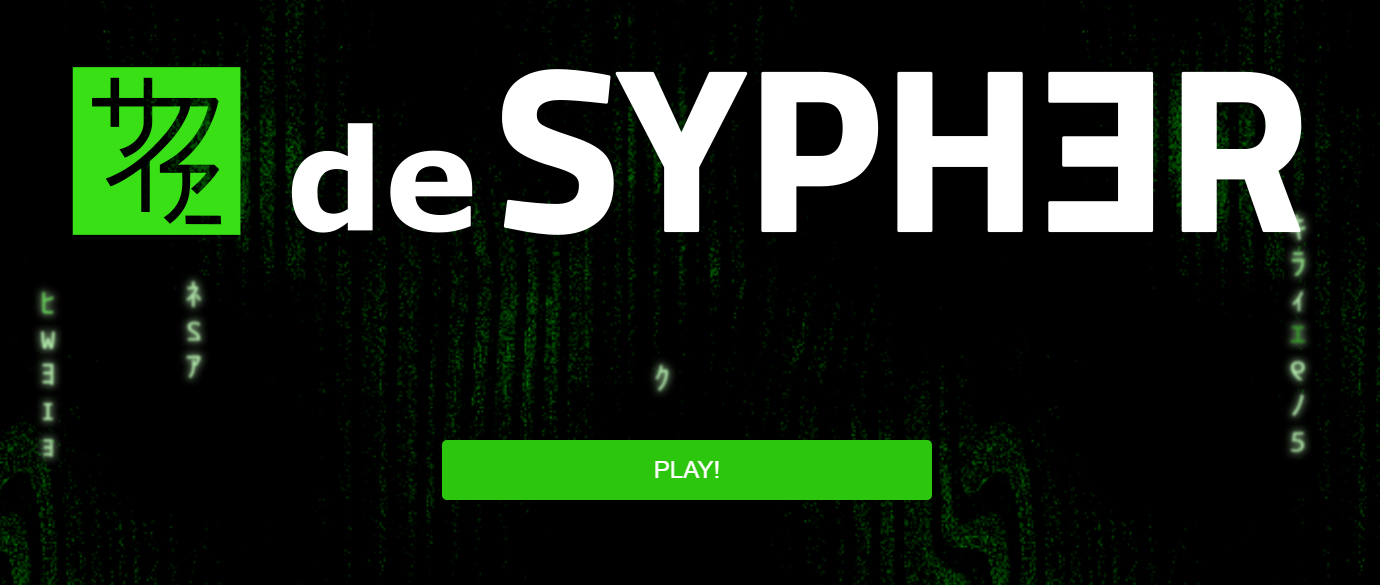
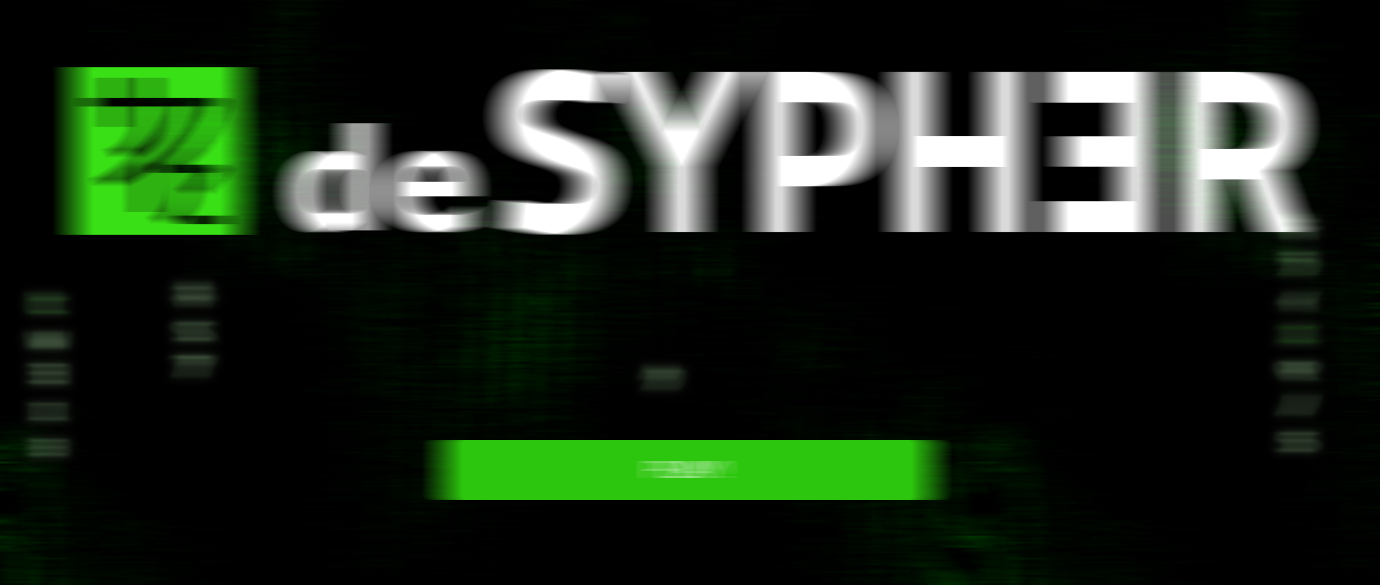
add details & bug fixes
- added sfx
- added audio pool
- adjusted image in readme
- added more sleek animations
- button hover sfx
- changed positioning of some elements

diff --git a/public/style.css b/public/style.css
@@ -15,8 +15,8 @@ body {
 .game-logo {
     max-width: 100%;
     height: auto;
-    margin-bottom: 20px;
-    margin-top: -100px;
+    margin-bottom: 2px;
+    margin-top: -50px;
     animation: transitionDown 5s;
     animation-timing-function: ease-in;
     align-self: center;
@@ -122,7 +122,7 @@ body {
 }
 /* #endregion Puzzle Input Fields */
 
-/* #region Game Button */
+/* #region Game Buttons */
 .game-button {
     background-color: #2dc60e;
     color: white;
@@ -156,23 +156,25 @@ body {
     border: 2px solid #0f3e07; /* Border for when the button is focused */
 }
 .play-button {
-    display: inline-block; /* or 'block' depending on your layout needs */
-    width: 35%; /* Adjust the width as needed */
+    display: inline-block;
+    width: 35%;
     margin: 0 auto; /* Centers the button horizontally in its container */
     text-align: center; /* Centers the text horizontally */
-    padding: 15px 30px; /* Adjust as needed. Also helps in vertical spacing */
-    font-size: 24px; /* Adjust based on your design */
-    line-height: 1.25; /* Adjusting the line height can help center the text vertically */
+    padding: 15px 30px;
+    font-size: 24px;
+    line-height: 1.25;
+    animation: transitionScale 2.5s, pulse 2s infinite ease-in-out 2.5s;
 }
-/* #endregion Game Button */
+/* #endregion Game Buttons */
 
 /* #region Social Media */
 .social-media-section {
     text-align: center;
     margin-top: 40px;
-    padding: 40px 0; /* Spacing at the top and bottom */
-    position: fixed;
-    bottom: 20px; /* This positions the section at the bottom of the viewport */
+    padding: 1px 0; /* Spacing at the top and bottom */
+    position: sticky;
+    top: 2px; /* Adjust the offset as needed */
+    bottom: 2px; /* This positions the section at the bottom of the viewport */
     left: 50%;
     transform: translateX(-50%); /* This centers the section */
     z-index: 100; /* Ensures it's on top of other elements */
@@ -205,10 +207,10 @@ body {
 /* #region Branding Section */
 .branding-section {
     margin-top: 40px;
-    padding: 20px 0;
+    padding: 1px 0;
     text-align: center;
-    position: fixed;
-    bottom: 5px;
+    position: sticky;
+    bottom: 1px;
     z-index: 100;
     color: #166009;
     animation: transitionScale 3.5s;
@@ -259,30 +261,96 @@ body {
 }
 /* #endregion Mobile-specific adjustments */
 
-
-
-
-
-/* Style the scrollbar track (background) */
+/* #region Scrollbar */
 ::-webkit-scrollbar {
-    width: 12px; /* width of the entire scrollbar */
+    background: black;
+    width: 12px;
   }
   
   /* Handle */
 ::-webkit-scrollbar-thumb {
-    background: #888; /* scrollbar handle color */
+    background: #0f3e07;
     border-radius: 6px;
   }
   
   /* Handle on hover */
 ::-webkit-scrollbar-thumb:hover {
-    background: #555; /* scrollbar handle color on hover */
+    background: #166009;
   }
+/* #endregion Scrollbar */
 
-  
+/* #region Animations */
+@keyframes transitionDown {
+    from {
+        opacity: 0;
+        transform: translateY(-20px); /* Start slightly above the final position */
+    }
+    to {
+        opacity: 1;
+        transform: translateY(0);
+    }
+}
+@keyframes transitionLeft {
+    from {
+        opacity: 0;
+        transform: translateX(20px);
+    }
+    to {
+        opacity: 1;
+        transform: translateX(0);
+    }
+}
+@keyframes transitionRight {
+    from {
+        opacity: 0;
+        transform: translateX(-20px);
+    }
+    to {
+        opacity: 1;
+        transform: translateX(0);
+    }
+}
+@keyframes transitionScale {
+    from {
+        opacity: 0;
+        scale: 1.25;
+    }
+    to {
+        opacity: 1;
+        transform: scale(var(--default-scale));
+    }
+}
+@keyframes fall {
+    from {
+        transform: translateY(-100%);
+    }
+    to {
+        transform: translateY(50vh);
+    }
+}
+@keyframes pulse {
+    0%, 100% {
+        transform: scale(1); /* Original size */
+    }
+    50% {
+        transform: scale(1.1); /* Slightly larger */
+    }
+}
 
+/* #endregion Animations */
 
-
+/* #region Visual Effects */
+.spritesheet {
+    position: fixed;
+    top: 0;
+    background-image: url('assets/spritesheet.png');
+    background-repeat: no-repeat;
+    width: 128px; /* Your frame width */
+    height: 1024px; /* Your frame height */
+    animation: fall 5s linear forwards;
+    scale: .25;
+}
+/* #endregion Visual Effects */
 
 .color-key {
     list-style-type: none;
@@ -322,71 +390,3 @@ body {
 .input-fields {
     margin: 10px 0;
 }
-
-/* #region Animations */
-@keyframes transitionDown {
-    from {
-        opacity: 0;
-        transform: translateY(-20px); /* Start slightly above the final position */
-    }
-    to {
-        opacity: 1;
-        transform: translateY(0);
-    }
-}
-
-@keyframes transitionLeft {
-    from {
-        opacity: 0;
-        transform: translateX(20px);
-    }
-    to {
-        opacity: 1;
-        transform: translateX(0);
-    }
-}
-
-@keyframes transitionRight {
-    from {
-        opacity: 0;
-        transform: translateX(-20px);
-    }
-    to {
-        opacity: 1;
-        transform: translateX(0);
-    }
-}
-
-@keyframes transitionScale {
-    from {
-        opacity: 0;
-        scale: 1.25;
-    }
-    to {
-        opacity: 1;
-        transform: scale(var(--default-scale));
-    }
-}
-
-@keyframes fall {
-    from {
-        transform: translateY(-100%);
-    }
-    to {
-        transform: translateY(50vh);
-    }
-}
-/* #endregion Animations */
-
-/* #region Visual Effects */
-.spritesheet {
-    position: fixed;
-    top: 0;
-    background-image: url('assets/spritesheet.png');
-    background-repeat: no-repeat;
-    width: 128px; /* Your frame width */
-    height: 1024px; /* Your frame height */
-    animation: fall 5s linear forwards;
-    scale: .25;
-}
-/* #endregion Visual Effects */

diff --git a/public/script.js b/public/script.js
@@ -8,6 +8,29 @@ document.addEventListener('DOMContentLoaded', function () {})
 
     const playButton = document.getElementById('playButton');
 
+    //#region Audio
+    const audioPool = [];
+    const poolSize = 5; // Adjust based on needs and testing
+    for (let i = 0; i < poolSize; i++) {
+        audioPool.push(new Audio('assets/hover_sound.ogg'));
+    }
+    let audioIndex = 0;
+
+    const elements = document.querySelectorAll('button, input');
+
+    elements.forEach(element => {
+        element.addEventListener('mouseenter', () => {
+            // Use an audio object from the pool
+            const sound = audioPool[audioIndex];
+            sound.currentTime = 0; // Rewind to start
+            sound.play().catch(error => console.log("Error playing sound:", error));
+
+            // Move to the next audio object in the pool for the next event
+            audioIndex = (audioIndex + 1) % poolSize;
+        });
+    });
+    //#endregion Audio
+
     //#region Color Palette
     const colorPalette = {
         green: '#2dc60e',
@@ -25,7 +48,7 @@ document.addEventListener('DOMContentLoaded', function () {})
 
         console.log("Game started: Play button clicked.");
     });
-    
+
     function sendGuess() {
         const inputs = document.querySelectorAll('.puzzle-input');
         let word = '';
